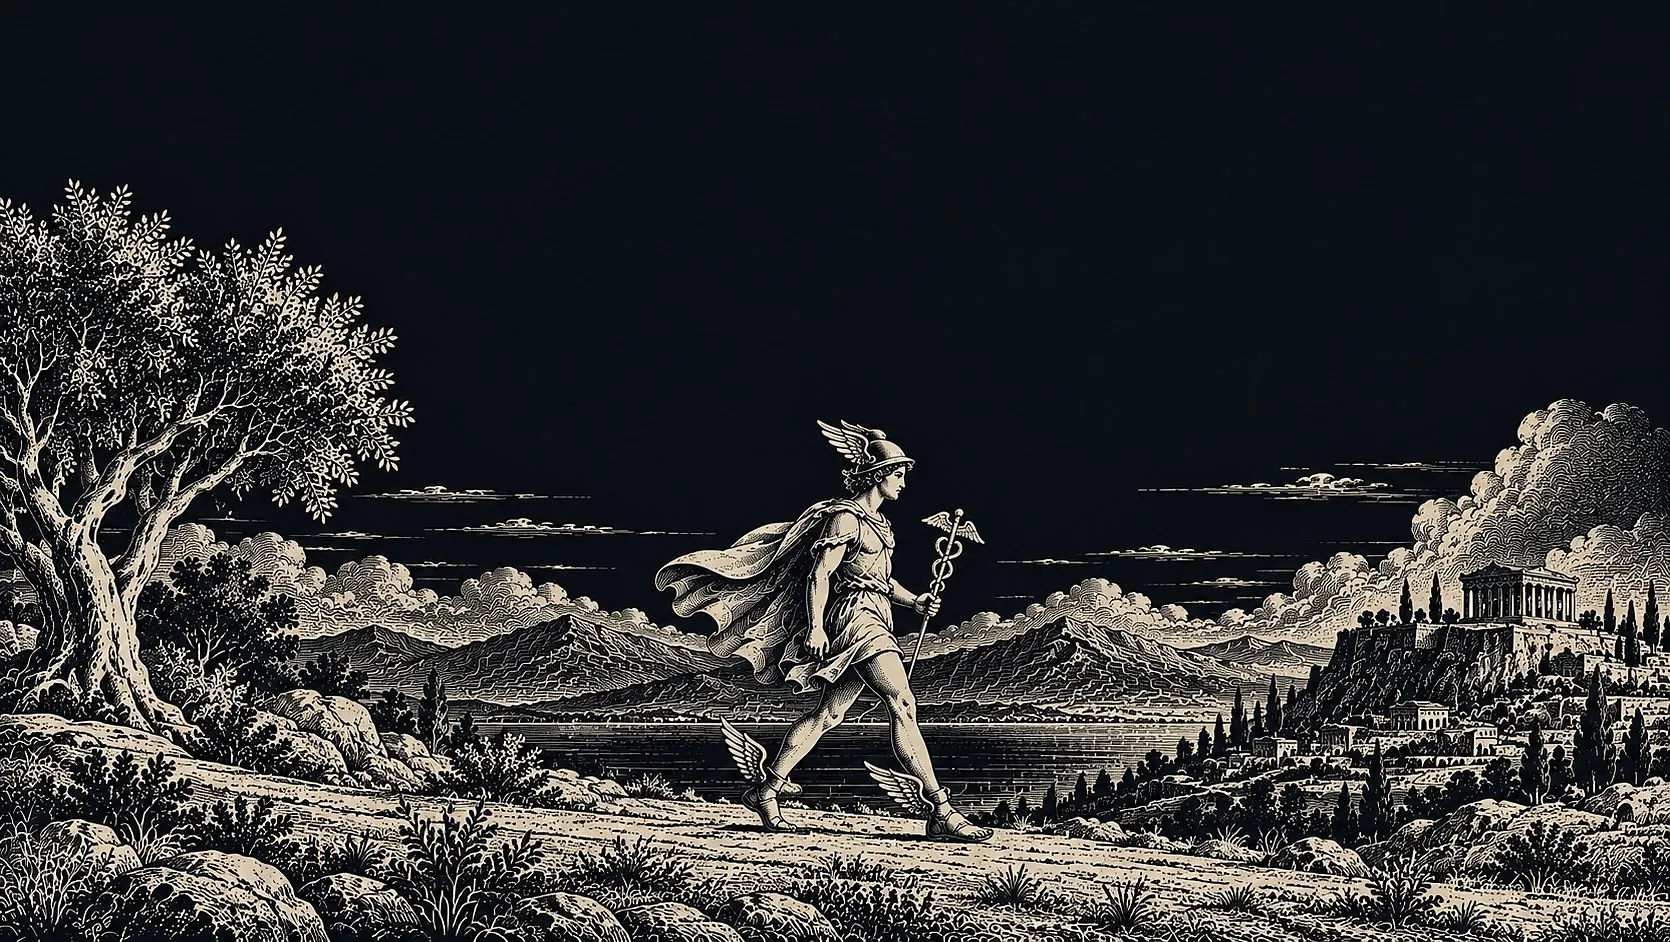
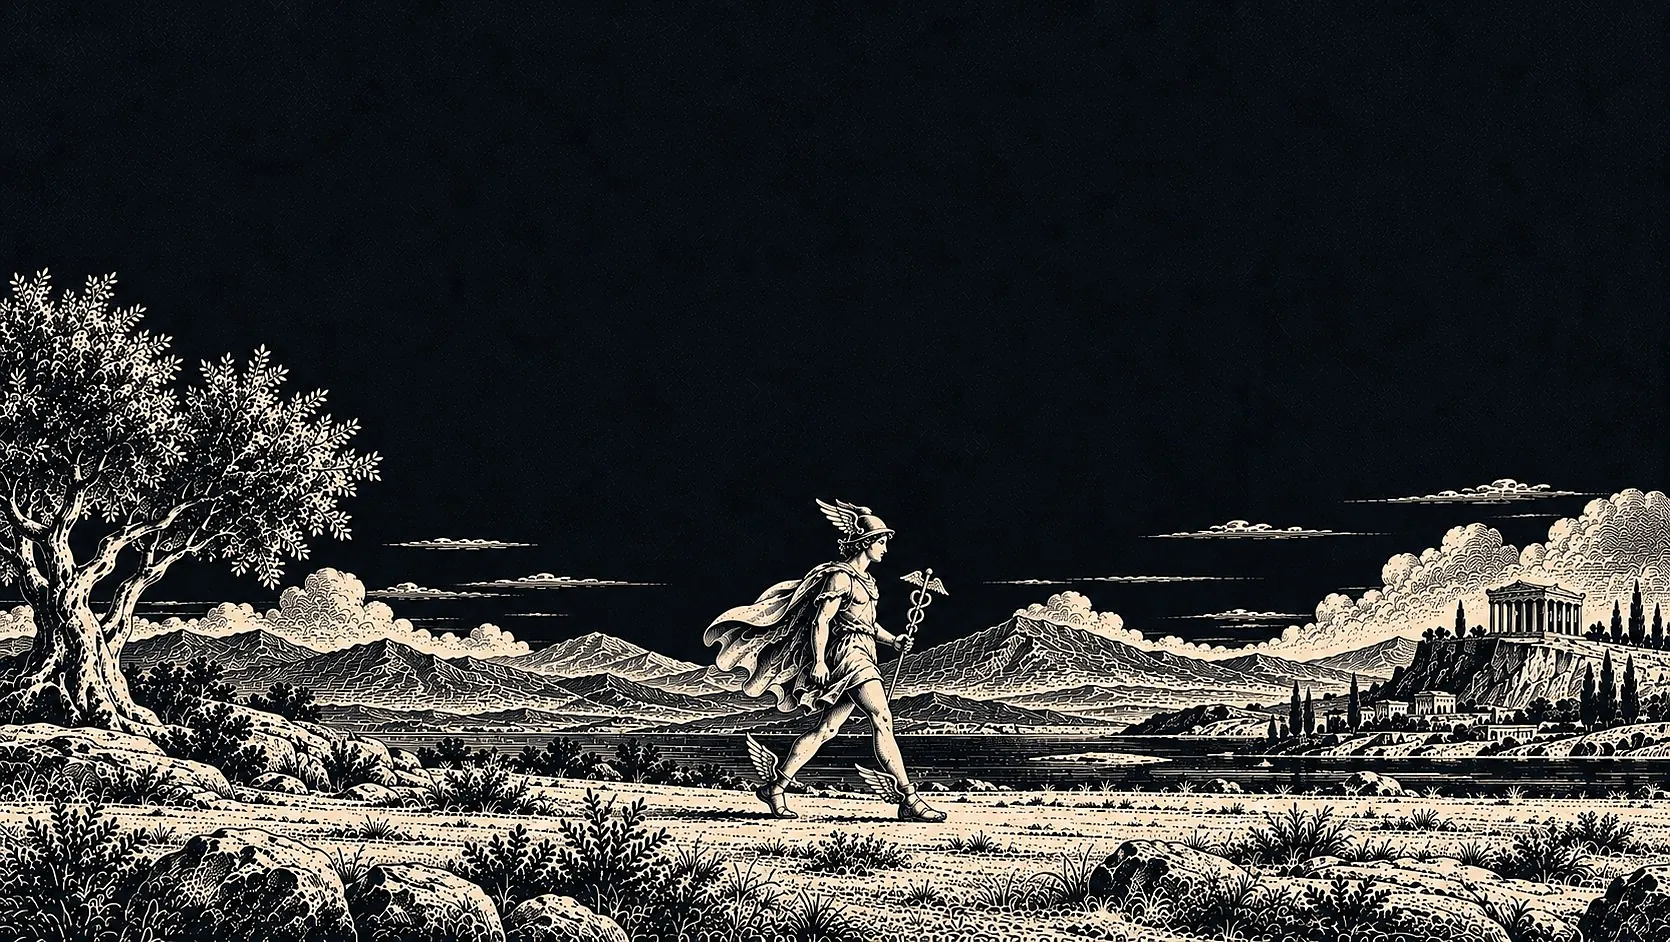
hero gelap: ganti ke ukiran Hermes baru, baca label neutron pakai pill

diff --git a/src/styles/global.css b/src/styles/global.css
@@ -24,9 +24,9 @@ html[data-theme=dark] .feed,html[data-theme=dark] .strip,html[data-theme=dark] .
 html[data-theme=dark] .sheet,html[data-theme=dark] .live-frame{
   --ink:#121214;--text:#636268;--mute:#6b6a72;--rule:#e6e5e2;--card:#f1f1ef;--accent:#6b46c1}
 html[data-theme=dark]{background:var(--bg);color-scheme:dark}
-/* hero: di mode gelap ilustrasinya pindah ke ukiran Merkurius */
+/* hero: di mode gelap ilustrasinya pindah ke ukiran Hermes */
 html[data-theme=dark] .page-bg{background-image:url('/bg/hermes-dark.webp')!important;
-  background-position:center 36%;opacity:.92;filter:brightness(.58) saturate(.92)}
+  background-position:center 100%;opacity:.95;filter:brightness(.72) saturate(.92)}
 html[data-theme=dark] .filter-btn[aria-pressed="true"],html[data-theme=dark] .btn-cv{color:#0d0d10}
 html[data-theme=dark] .contact-row:hover{background:#ffffff10}
 html[data-theme=dark] .spec{background:#1d1d23}
@@ -206,8 +206,11 @@ a.link:hover{color:var(--accent);border-color:var(--accent)}
   -webkit-mask-image:radial-gradient(50% 50%,#000 58%,transparent 100%);
   mask-image:radial-gradient(50% 50%,#000 58%,transparent 100%)}
 .hole-caption{text-align:center;font-size:var(--small);color:var(--mute);min-height:1.55em;margin:6px 0 0}
-.bh-readout{font-family:var(--mono);letter-spacing:-.01em}
-.bh-readout.is-live{color:var(--accent)}
+.bh-readout{font-family:var(--mono);letter-spacing:-.01em;
+  color:#f6f5f2;background:rgba(8,10,18,.66);padding:3px 9px;border-radius:999px;
+  -webkit-backdrop-filter:blur(6px);backdrop-filter:blur(6px);
+  text-shadow:0 1px 4px rgba(0,0,0,.8)}
+.bh-readout.is-live{color:#b9a6ff}
 .gw{will-change:transform;display:inline-block}
 .gw-keep{white-space:nowrap}
 a .gw{text-decoration:inherit;text-decoration-color:inherit;text-underline-offset:3px}
